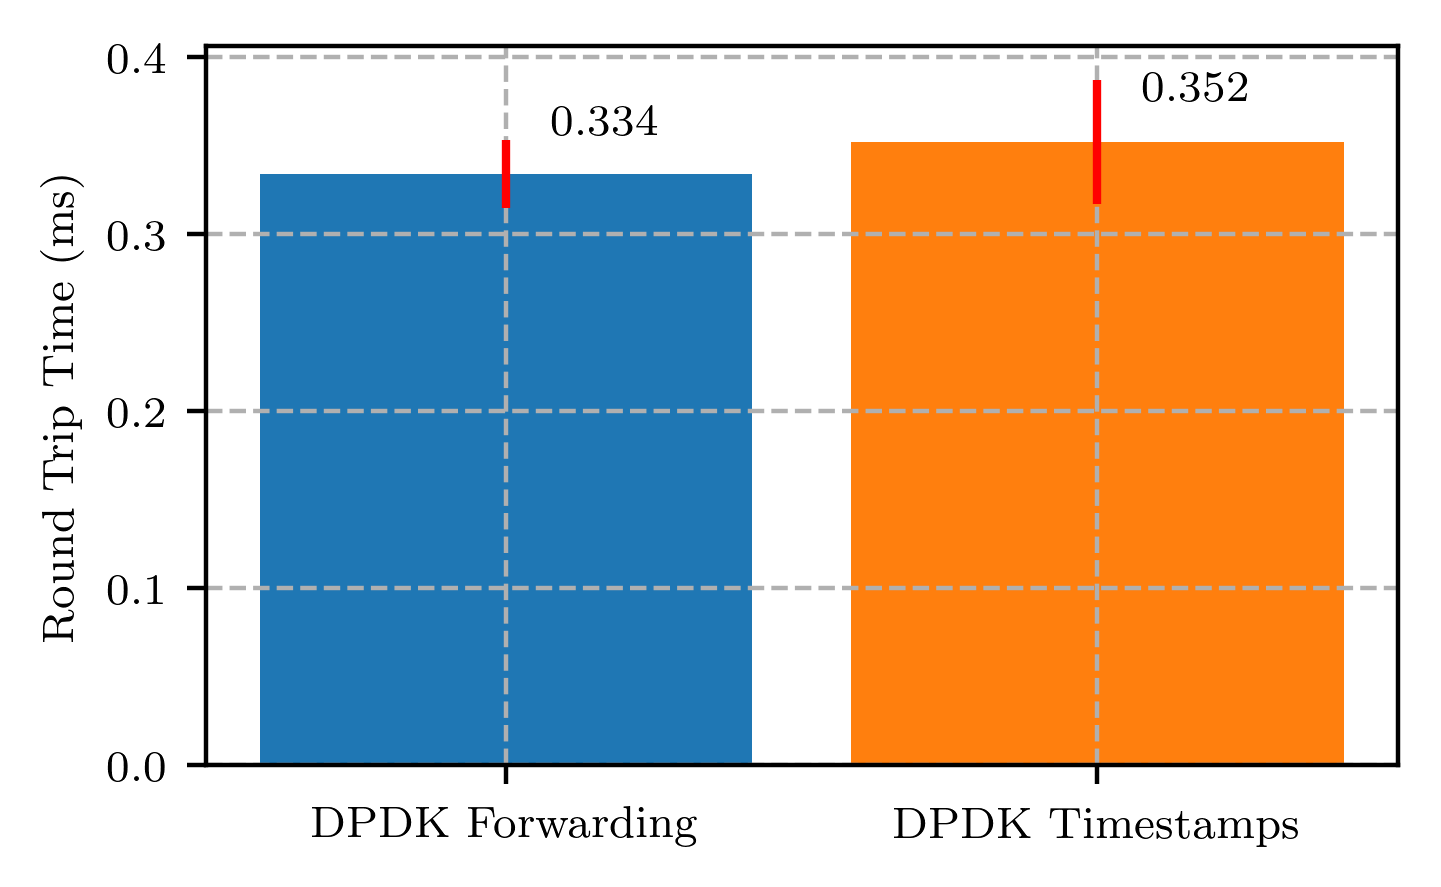
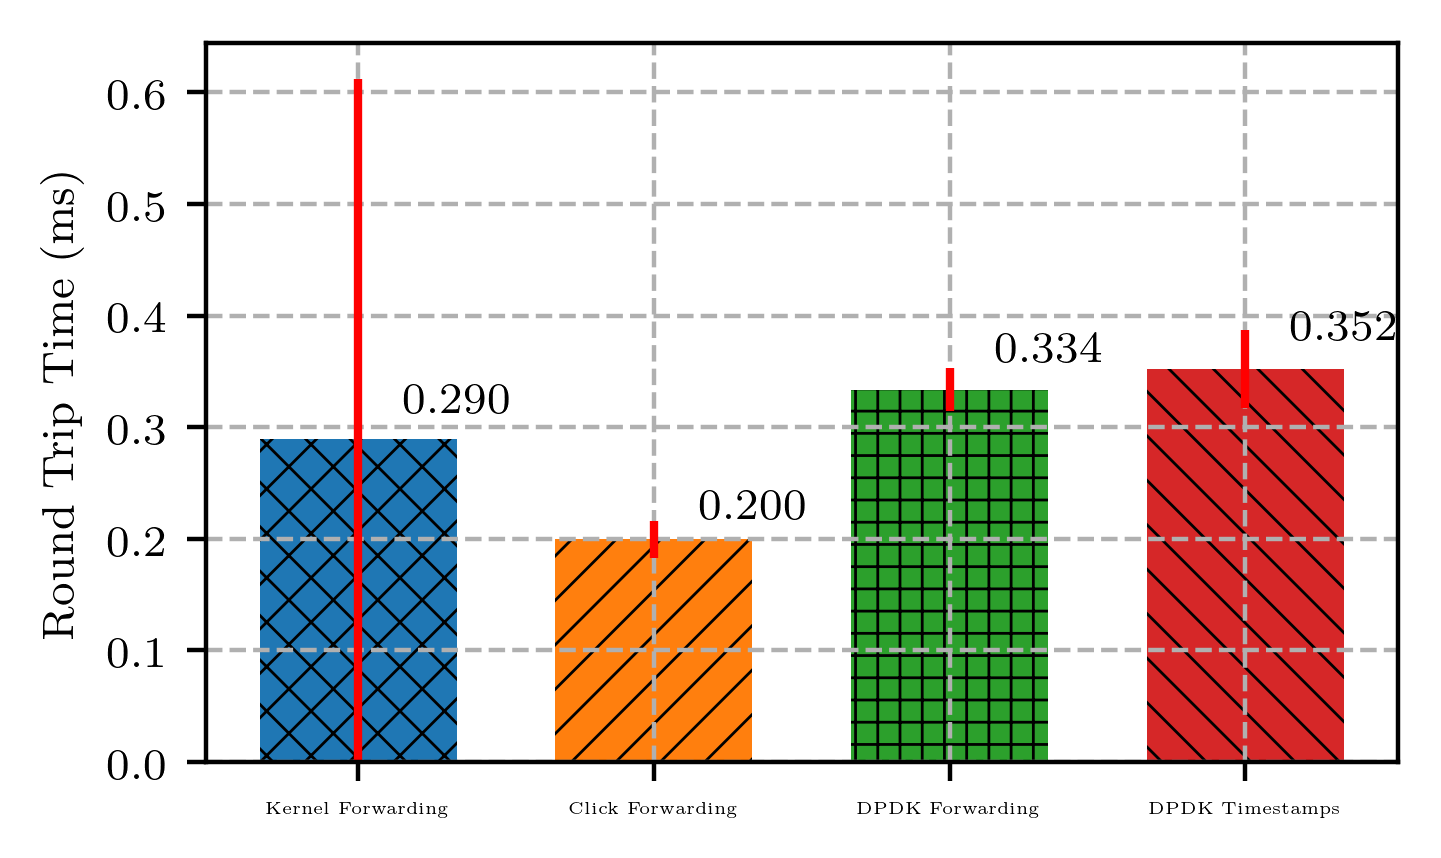
Add some RTT tests with fixed IPD 5ms

diff --git a/delay_timer/udp_rtt_timer.py b/delay_timer/udp_rtt_timer.py
@@ -94,7 +94,7 @@ class UDPClient(Base):
 
     """UDP Client"""
 
-    def __init__(self, send_addr, recv_ip, pack_nb, ipd, pld_size):
+    def __init__(self, send_addr, recv_ip, pack_nb, ipd, pld_size, b_addr):
         super(UDPClient, self).__init__('client')
         self._send_ip, self._send_port = send_addr
         self._recv_ip = recv_ip
@@ -102,12 +102,15 @@ class UDPClient(Base):
         self._pld_size = pld_size
         self._ipd = ipd
         self._pack_nb = pack_nb
+        self._b_addr = b_addr
 
         self._recv_info_lst = list()
         self._rtt_result = list()
         self._flush_csv = True
 
     def _send_pack(self):
+        if self._b_addr:
+            self._send_sock.bind(self._b_addr)
         logger.info('[Client] Start sending UDP packets to %s:%s' %
                     (self._send_ip, self._send_port))
 
@@ -189,7 +192,7 @@ class UDPServer(Base):
 
     """UDP Server"""
 
-    def __init__(self, queue_size, recv_addr, send_delay, pld_size):
+    def __init__(self, queue_size, recv_addr, send_delay, pld_size, b_addr):
         super(UDPServer, self).__init__('server')
         self.buffer = queue.Queue(maxsize=queue_size)
         self._recv_ip, self._recv_port = recv_addr
@@ -198,6 +201,7 @@ class UDPServer(Base):
         self._st_send_evt.clear()
         self._send_delay = send_delay
         self._pld_size = pld_size
+        self._b_addr = b_addr
 
     def _recv_pack(self):
         self._recv_sock.bind((self._recv_ip, self._recv_port))
@@ -223,6 +227,8 @@ class UDPServer(Base):
                 recv_idx += 1
 
     def _send_pack(self):
+        if self._b_addr:
+            self._send_sock.bind(self._b_addr)
         bounce_idx = 0
         while True:
             if not self.buffer.empty():
@@ -286,6 +292,8 @@ chain. (Bug of neutron sfc extension)""")
                         help='UDP Payload size in bytes.')
     parser.add_argument('--csv_path', type=str, default='./udp_rtt.csv',
                         help='Path to store CSV files.')
+    parser.add_argument('--bind', metavar='ADDRESS', type=str, default='',
+                        help='To be binded address for sending packets.')
 
     parser.add_argument('--log', type=str, default='INFO',
                         help='Logging level, e.g. INFO, DEBUG')
@@ -295,12 +303,20 @@ chain. (Bug of neutron sfc extension)""")
                         handlers=[logging.StreamHandler()],
                         format=fmt_str)
 
+    b_addr = None
+    if args.bind:
+        s_ip, s_port = args.bind.split(':')
+        s_port = int(s_port)
+        logger.info('Bind send socket to address: %s:%d', s_ip, s_port)
+        b_addr = (s_ip, s_port)
+
     if args.c:
         logger.info('# Run in UDP client mode:')
         ip, port = args.c.split(':')
         port = int(port)
         udp_clt = UDPClient((ip, port), args.l, args.n,
-                            args.ipd, args.payload_size)
+                            args.ipd, args.payload_size,
+                            b_addr)
         CSV_FILE_PATH = args.csv_path
         udp_clt.run()
 
@@ -311,5 +327,5 @@ chain. (Bug of neutron sfc extension)""")
         logger.info('Server queue length: {}, send delay: {}s'.format(
             args.srv_queue_len, args.delay))
         udp_srv = UDPServer(args.srv_queue_len, (ip, port), args.delay,
-                            args.payload_size)
+                            args.payload_size, b_addr)
         udp_srv.run()

diff --git a/evaluation/round_trip_time/plot.py b/evaluation/round_trip_time/plot.py
@@ -21,6 +21,7 @@ from matplotlib.pyplot import cm
 from scipy import stats
 
 WARM_UP_NUM = 10
+TOTAL_PACK_NUM = 500
 FIG_FMT = 'png'
 
 
@@ -42,8 +43,13 @@ def calc_rtt_lst(subdir, csv_tpl, var_lst):
         csv_name = csv_tpl % (var)
         csv_path = os.path.join(subdir, csv_name)
         rtt_arr = np.genfromtxt(csv_path, delimiter=',',
-                                usecols=list(range(0, 500))) / 1000.0
+                                usecols=list(range(0, TOTAL_PACK_NUM))) / 1000.0
         rtt_arr = rtt_arr[:, WARM_UP_NUM:]
+        # Check nagative values
+        signs = np.sign(rtt_arr).flatten()
+        neg_sign = -1
+        if neg_sign in signs:
+            raise RuntimeError('Found negative RTT value in %s.' % csv_path)
         tmp_list = np.average(rtt_arr, axis=1)
         rtt_result_lst.append(
             # Average value and confidence interval
@@ -66,14 +72,21 @@ def label_bar(rects, ax):
 
 def plot_ipd():
     tex.setup(width=1, height=None, span=False, l=0.15, r=0.98, t=0.98, b=0.17,
-              params={})
+              params={
+                  'hatch.linewidth': 0.5
+              }
+              )
     ipd_lst = [5]
     cmap = cm.get_cmap('tab10')
     techs = ['udp_rtt_' + x +
-             '_%sms.csv' for x in ('dpdk_fwd', 'dpdk_appendts')]
-    xtick_labels = ('DPDK Forwarding', 'DPDK Timestamps')
+             '_%sms.csv' for x in (
+                 'lkfwd', 'click_fwd', 'dpdk_fwd', 'dpdk_appendts')
+             ]
+    xtick_labels = ('Kernel Forwarding', 'Click Forwarding',
+                    'DPDK Forwarding', 'DPDK Timestamps', 'Click Forwarding')
     colors = [cmap(x) for x in range(len(techs))]
-    bar_width = 0.25
+    hatch_patterns = ('xxx', '///', '+++', '\\\\\\', 'ooo', 'OOO', '...')
+    bar_width = 0.10
     gap = 0.05
     fig, rtt_ax = plt.subplots()
     for idx, tech in enumerate(techs):
@@ -81,12 +94,15 @@ def plot_ipd():
         rtt_bar = rtt_ax.bar([0 + idx * (bar_width + gap)], [t[0] for t in rtt_result_lst],
                              yerr=[t[1] for t in rtt_result_lst],
                              color=colors[idx], ecolor='red',
+                             hatch=hatch_patterns[idx],
                              width=bar_width)
         label_bar(rtt_bar, rtt_ax)
 
     rtt_ax.set_ylabel('Round Trip Time (ms)')
-    rtt_ax.set_xticks([0, 0+bar_width+gap])
-    rtt_ax.set_xticklabels(xtick_labels)
+    rtt_ax.set_xticks([0 + x * (bar_width + gap) for x in range(len(techs))])
+    # rtt_ax.set_xticks([0, 0+bar_width+gap])
+    rtt_ax.set_ylim(0, )
+    rtt_ax.set_xticklabels(xtick_labels, fontsize=3)
     rtt_ax.grid(linestyle='--')
     save_fig(fig, './rtt_fix_ipd')
 

diff --git a/README.md b/README.md
@@ -36,7 +36,15 @@ Such VNFs should be latter integrated into the [SFC-Ostack](https://github.com/s
 
   - Pros:
 
+      - Built-in feature of Linux Kernel. No additional configuration or hardware features are required.
+
   - Cons:
+
+      - Current AF_PACKET(V3) does not support zero-copy, lock-less structures, eliminations of syscalls for high IO
+          speed.
+
+
+1. Click Modular Router:
 
 ## Catalog ##
 
